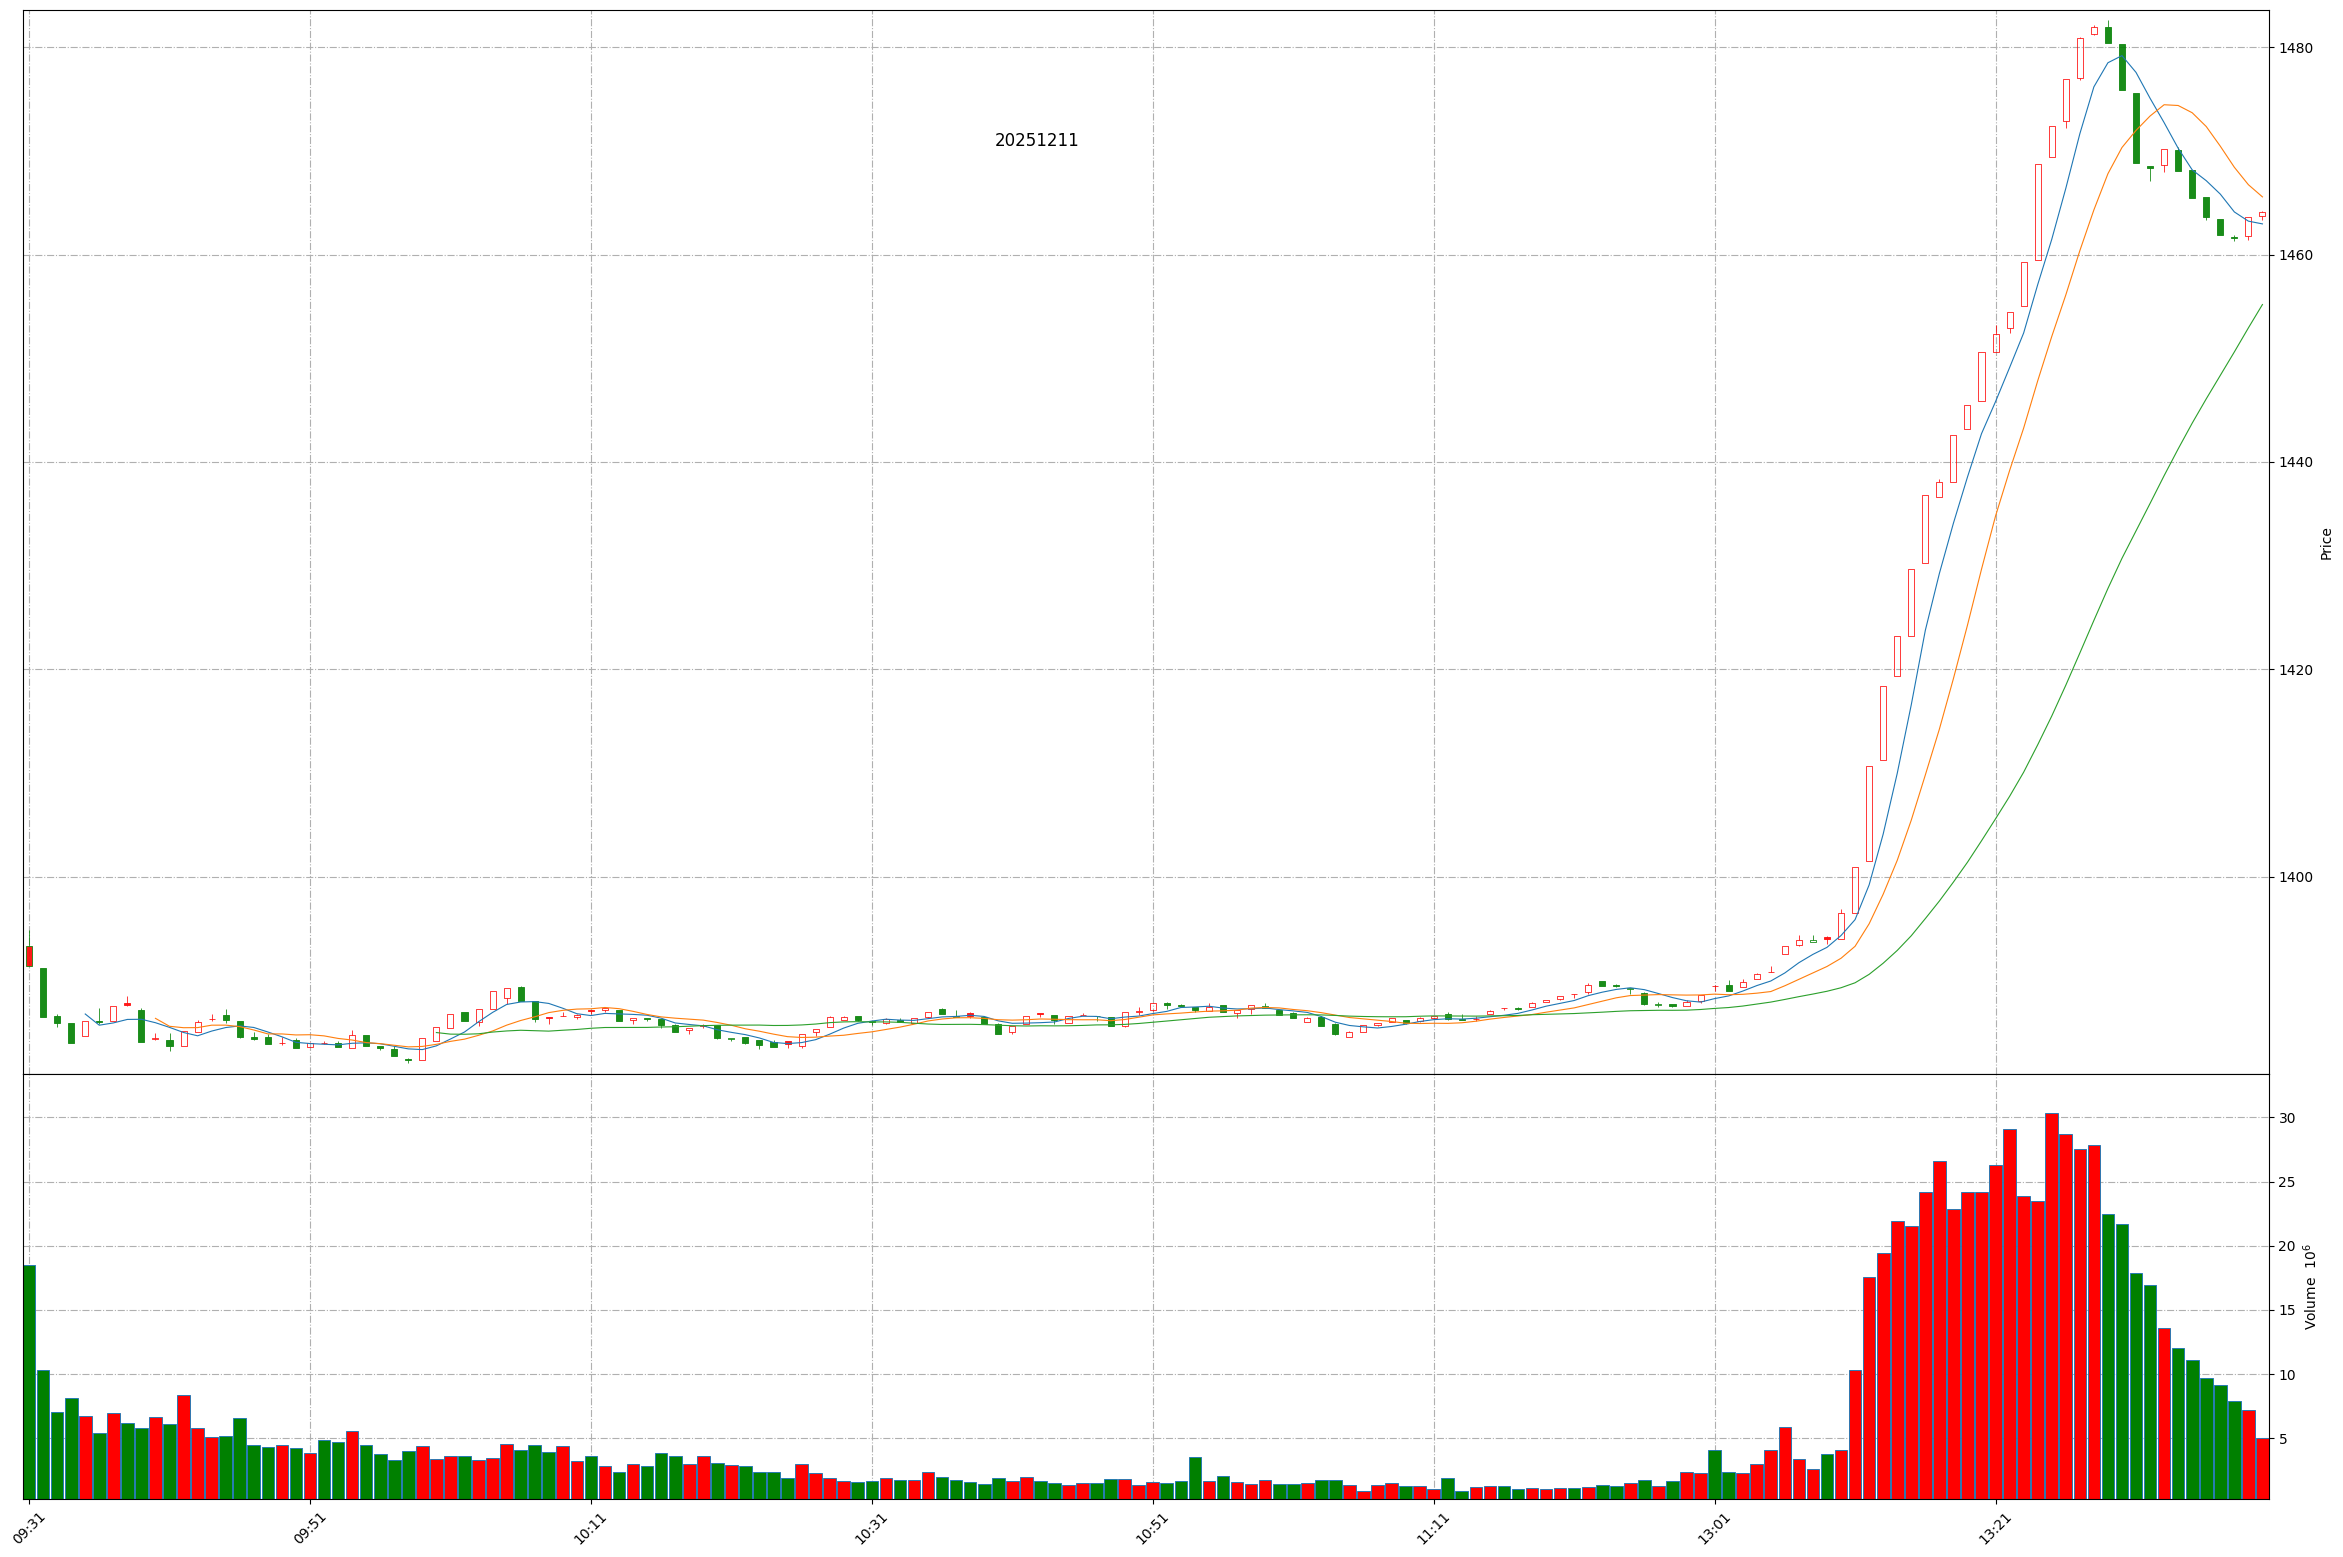
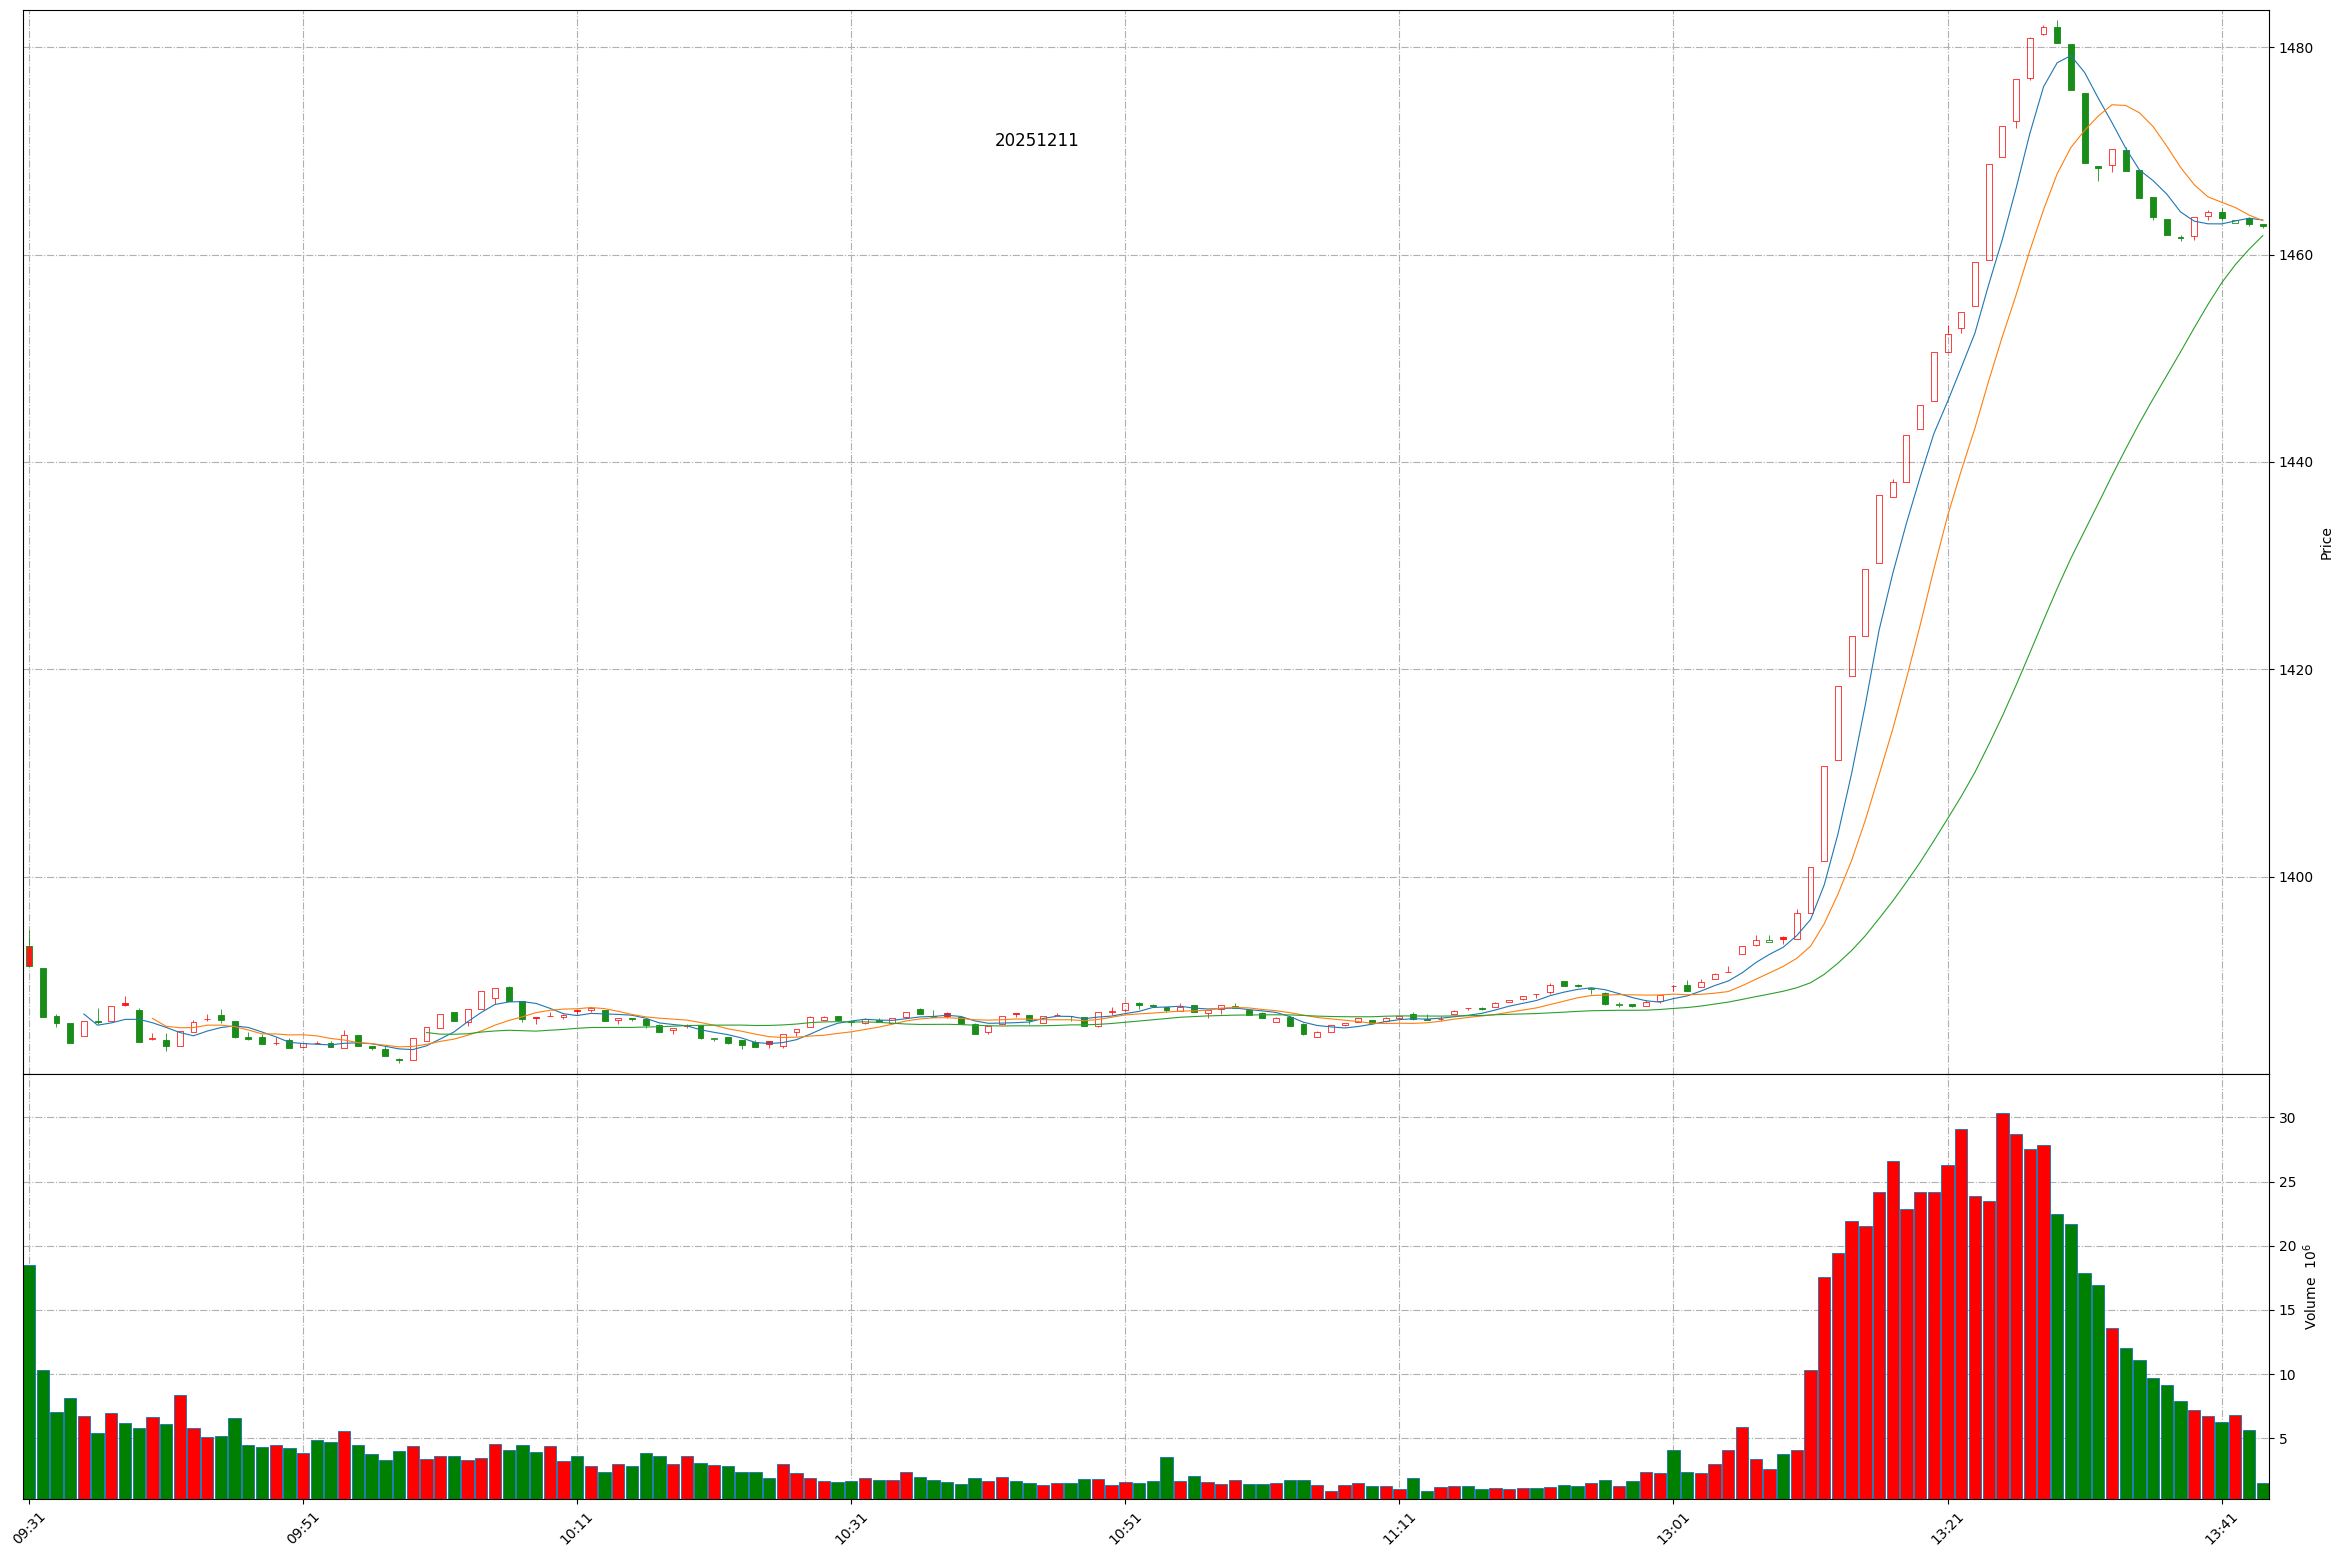
Github action update at 2025-12-11 13:43:26.

diff --git a/README.md b/README.md
@@ -1,11 +1,11 @@
 
 # Daily-A-share-market-quotes 每日 A 股指数（5min 更新）- 20251211
 
-### 上证指数 20251211 13:40
+### 上证指数 20251211 13:43
 ![](./fig/2025/12/20251211-sh000001.png)
 
-### 深证成指 20251211 13:40
+### 深证成指 20251211 13:43
 ![](./fig/2025/12/20251211-sz399001.png)
 
-### 北证50 20251211 13:40
+### 北证50 20251211 13:43
 ![](./fig/2025/12/20251211-bj899050.png)
